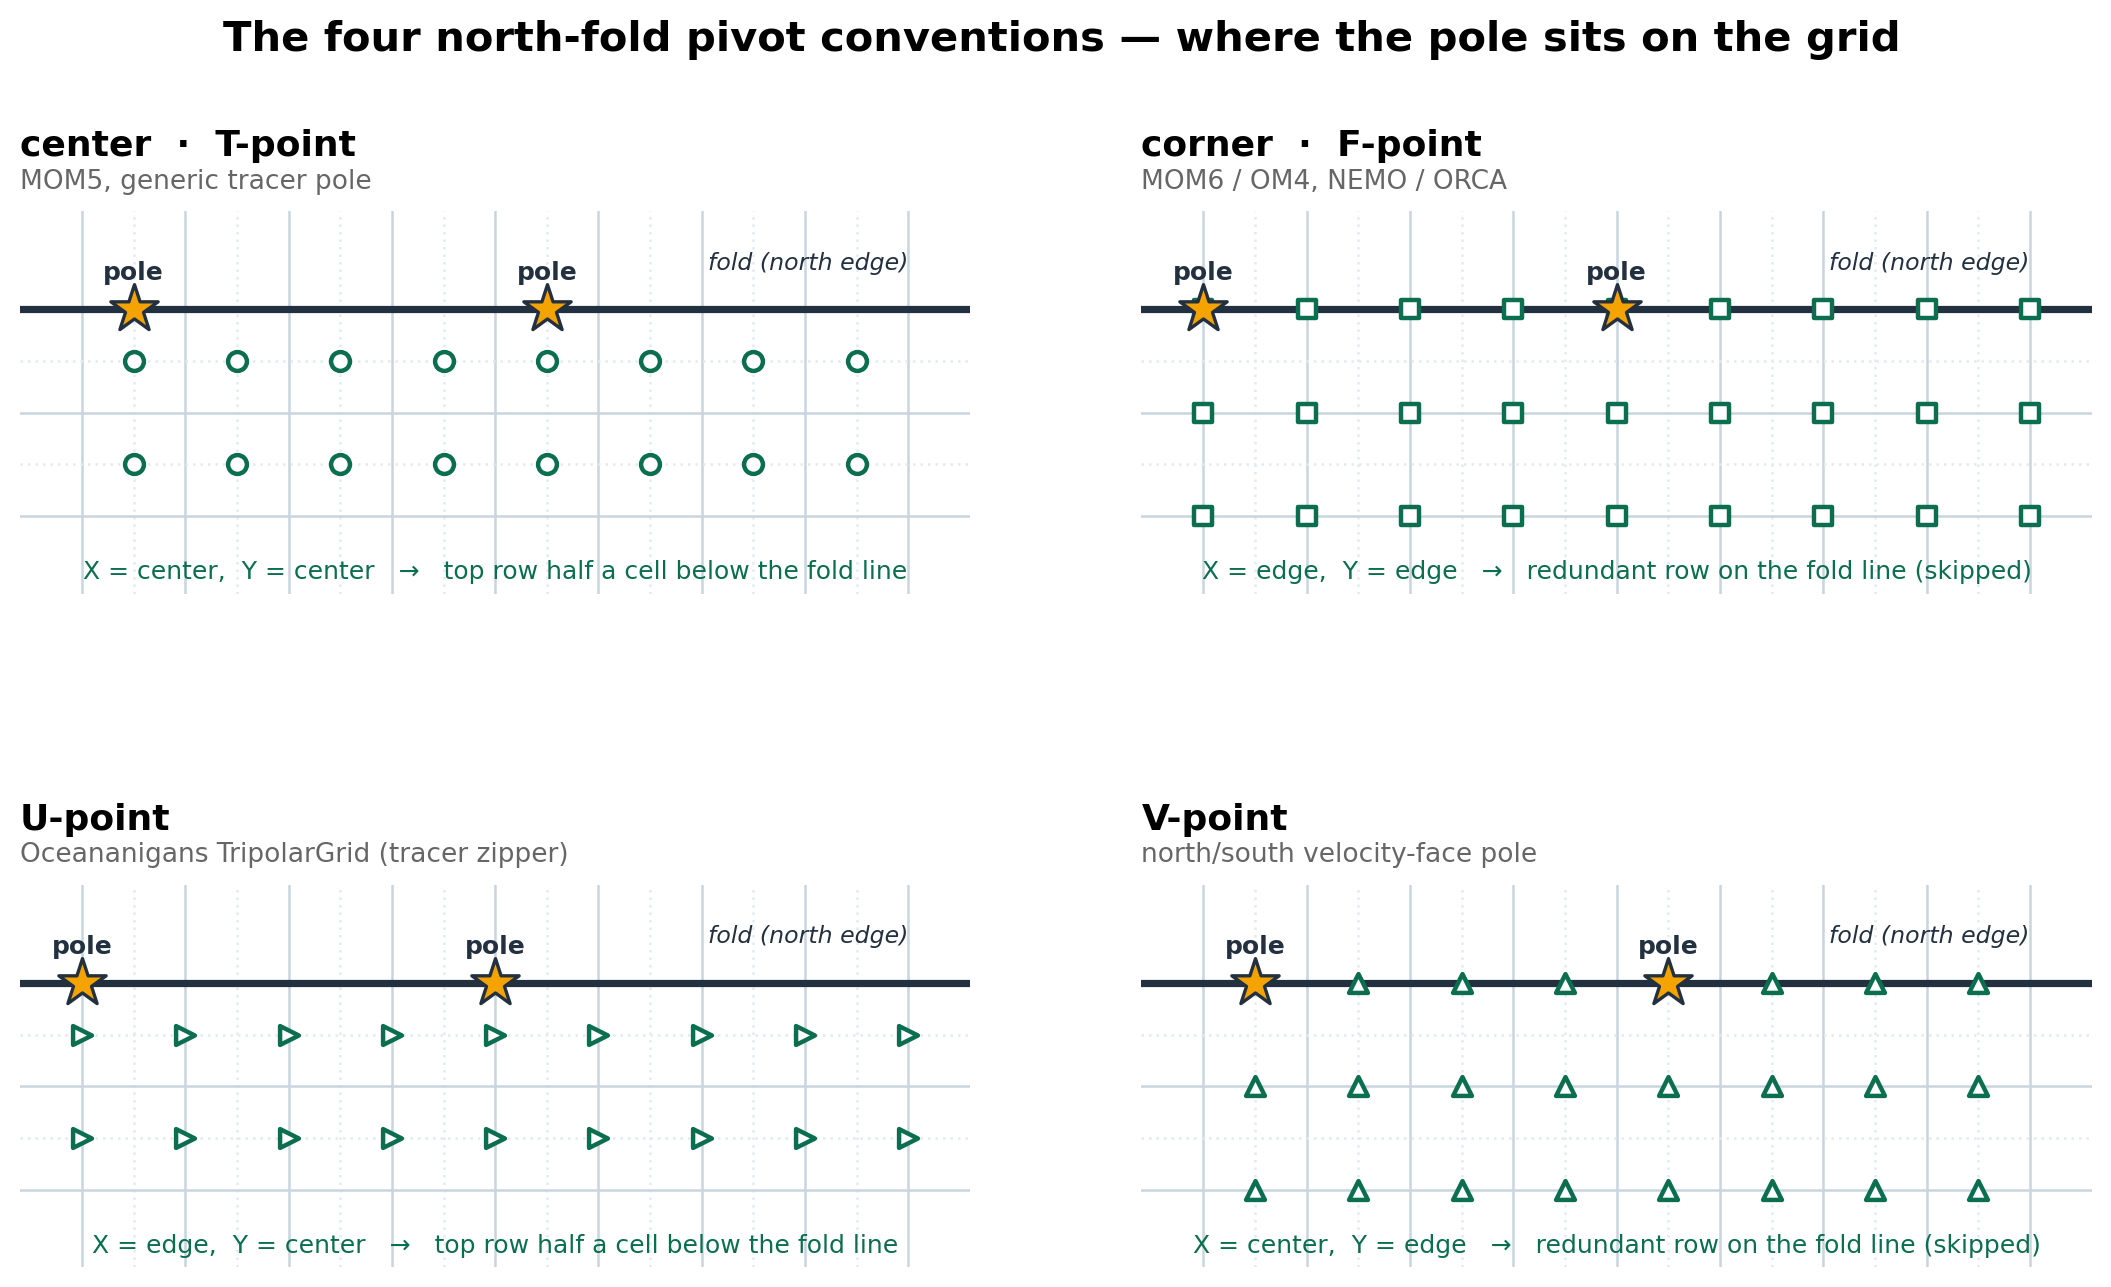
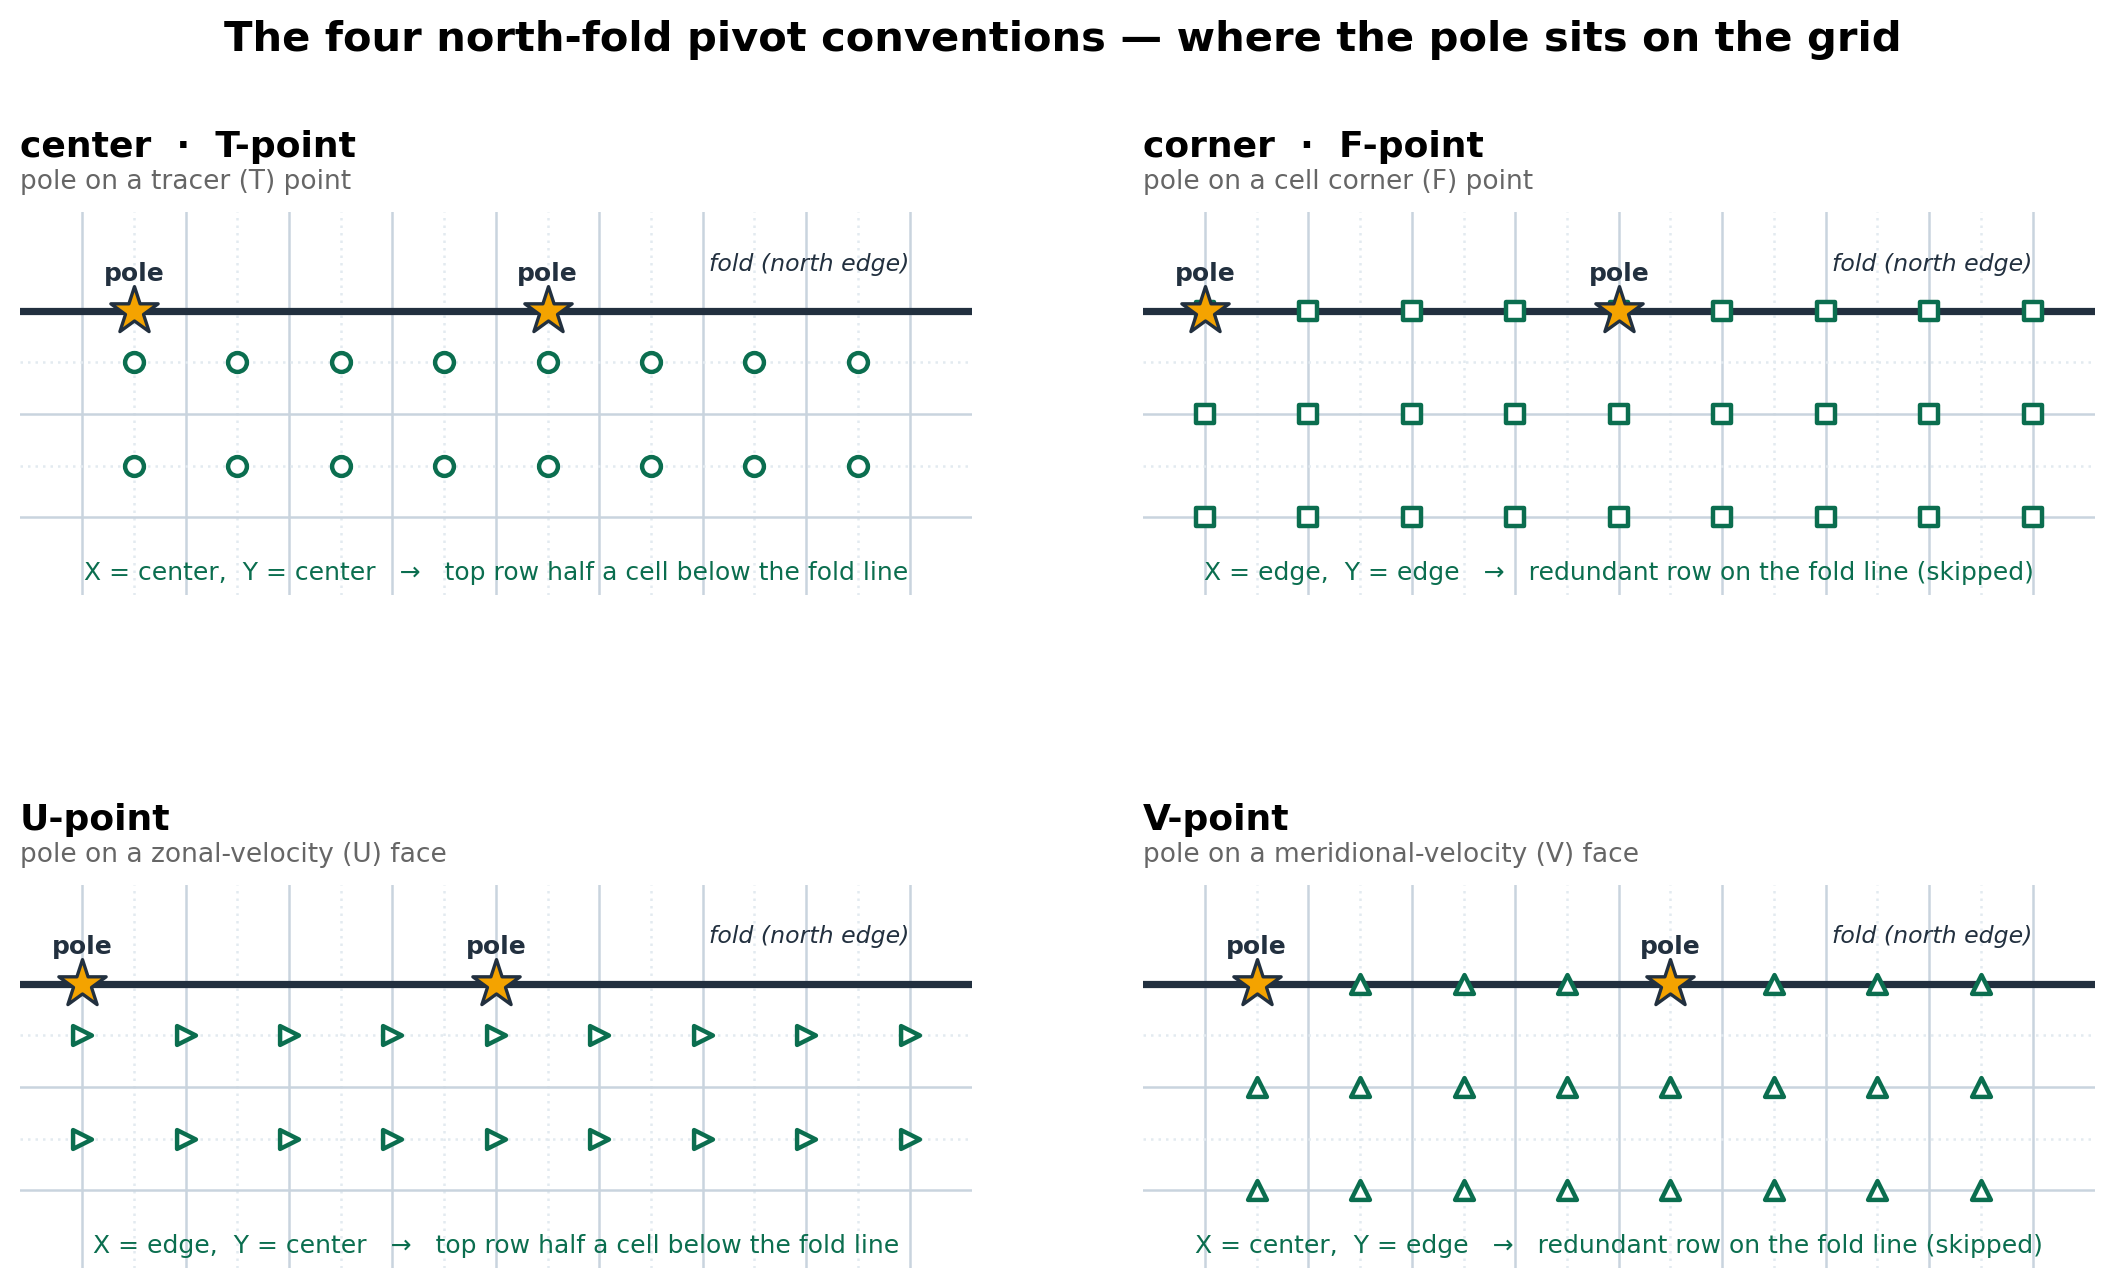
Make north-fold pivot schematic subtitles model-agnostic
The per-panel subtitles in the 4-pivot north-fold schematic attributed
specific pivot conventions to specific ocean models (e.g. MOM5 -> T-point;
NEMO/ORCA and Oceananigans pinned to single panels). These attributions
were misleading: several of these models support more than one pivot
convention, so tying each to a single panel overstates the relationship.

Replace the model-name subtitles with general, geometric descriptions of
where the pole sits on the staggered C-grid sublattice (tracer T point,
cell corner F point, zonal U face, meridional V face) and regenerate
docs/images/fold_pivots.png. The geometry and the halo figure are unchanged.

diff --git a/scripts/make_fold_schematics.py b/scripts/make_fold_schematics.py
@@ -46,12 +46,16 @@ plt.rcParams.update(
     }
 )
 
-# Four pivots: (label, models, X-role "seam", Y-role "fold", marker)
+# Four pivots: (label, subtitle, X-role "seam", Y-role "fold", marker)
+# Subtitles describe each pivot purely by where the pole sits on the staggered
+# (C-grid) sublattice -- not by model. Individual ocean models often support
+# more than one of these conventions, so we deliberately avoid pinning a model
+# to a single panel.
 PIVOTS = [
-    ("center  ·  T-point", "MOM5, generic tracer pole", "center", "center", "o"),
-    ("corner  ·  F-point", "MOM6 / OM4, NEMO / ORCA", "edge", "edge", "s"),
-    ("U-point", "Oceananigans TripolarGrid (tracer zipper)", "edge", "center", ">"),
-    ("V-point", "north/south velocity-face pole", "center", "edge", "^"),
+    ("center  ·  T-point", "pole on a tracer (T) point", "center", "center", "o"),
+    ("corner  ·  F-point", "pole on a cell corner (F) point", "edge", "edge", "s"),
+    ("U-point", "pole on a zonal-velocity (U) face", "edge", "center", ">"),
+    ("V-point", "pole on a meridional-velocity (V) face", "center", "edge", "^"),
 ]
 
 
@@ -73,7 +77,7 @@ def fig_pivots():
     fold_y = ny
     fig, axes = plt.subplots(2, 2, figsize=(11.0, 6.6))
 
-    for ax, (label, models, seam, fold, marker) in zip(axes.ravel(), PIVOTS):
+    for ax, (label, subtitle, seam, fold, marker) in zip(axes.ravel(), PIVOTS):
         _grid_backdrop(ax, nx, fold_y)
 
         # the fold line: the north edge of the logical grid
@@ -127,7 +131,7 @@ def fig_pivots():
         ax.text(
             0.0,
             1.045,
-            models,
+            subtitle,
             transform=ax.transAxes,
             fontsize=9.5,
             color="0.4",
